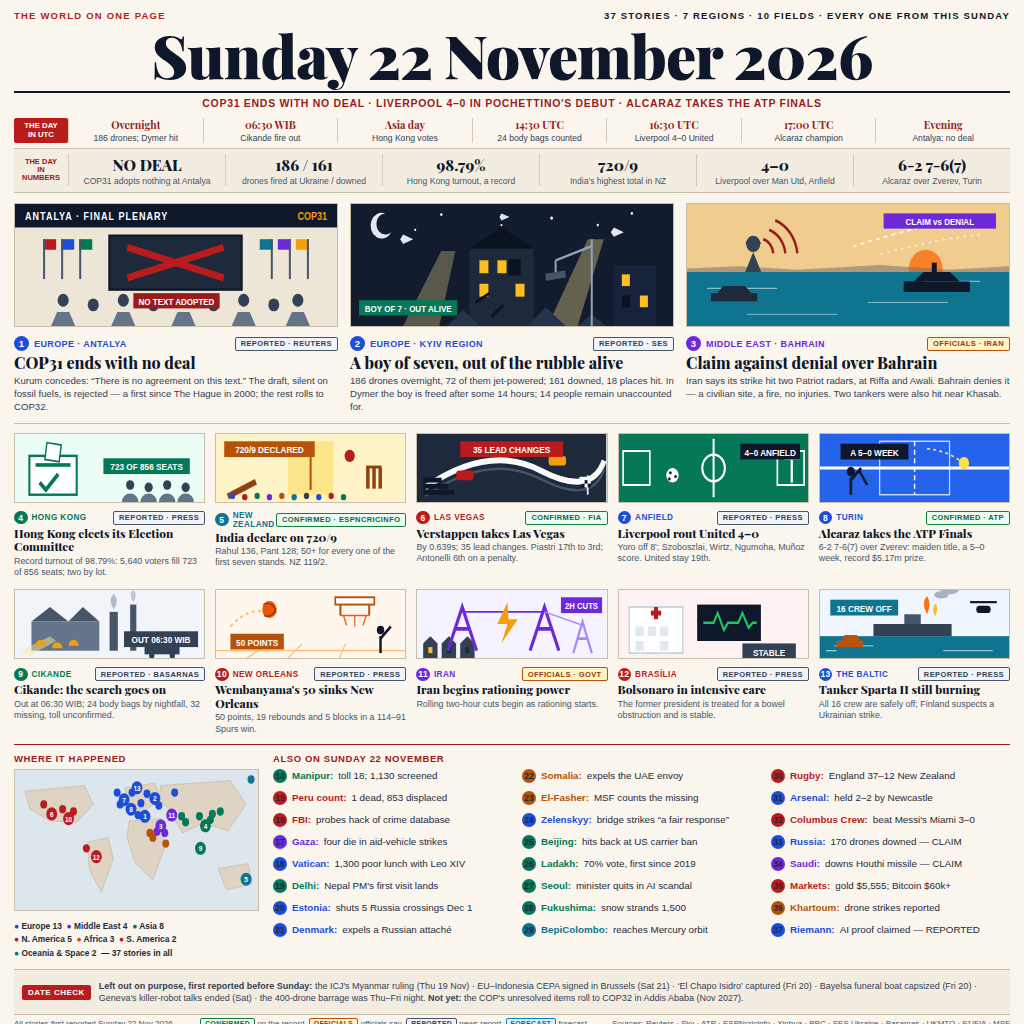
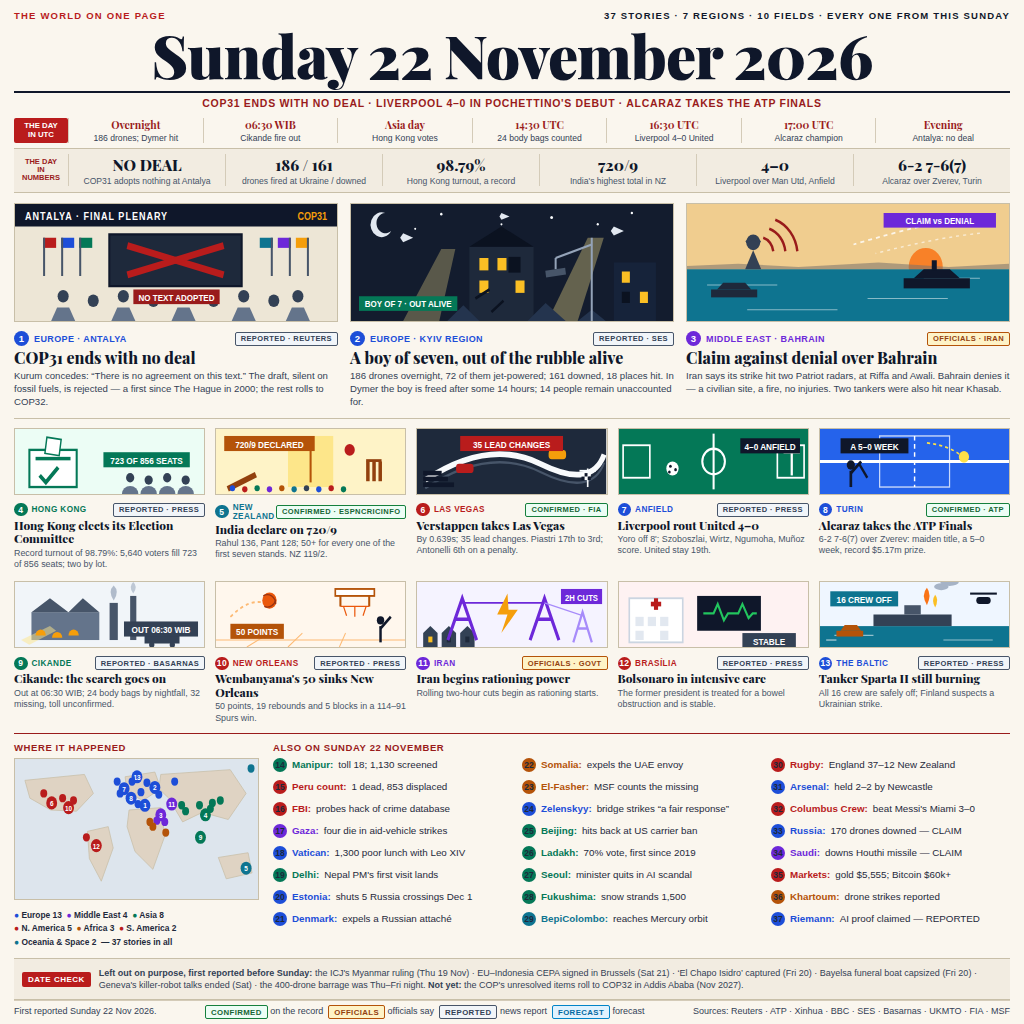
Footer legibility pass (user: legend row not visible)
Footer type 8px -> 9px in darker ink with a hairline rule above it;
mini badge pills 6.8px -> 7.8px; left line and sources list trimmed
so the row still fits one line. Reclaimed the height from lead
scenes (124->119), card scenes (70->67) and date-check padding so
nothing overflows the 1024 canvas. entry.png 301,616 bytes,
hand-in byte-identical x2.

Changed region(s): [[0.0, 0.1875, 1.0, 1.0], [0.5625, 0.2188, 0.5938, 0.25]]

diff --git a/page.html b/page.html
@@ -53,7 +53,7 @@
   .c-am { color:#B91C1C; } .c-af { color:#B45309; } .c-oc { color:#0E7490; }
   /* ---------- Layer 4: leads ---------- */
   .leads { display:grid; grid-template-columns:repeat(3,1fr); gap:12px; padding:10px 0 9px 0; }
-  .lead .scene { width:100%; height:124px; border:1px solid #C8BFA8; background:#EDE6D6; }
+  .lead .scene { width:100%; height:119px; border:1px solid #C8BFA8; background:#EDE6D6; }
   .mrow { display:flex; justify-content:space-between; align-items:center; margin:5px 0 3px 0; }
   .kick { display:flex; align-items:center; gap:5px; font-size:9px; font-weight:800; letter-spacing:0.4px; }
   .kick .dot { width:15px; height:15px; font-size:9.5px; }
@@ -62,7 +62,7 @@
   /* ---------- Layer 5: tier-2 cards ---------- */
   .tier2 { border-top:1px solid #C8BFA8; padding-top:9px;
     display:grid; grid-template-columns:repeat(5,1fr); column-gap:10px; row-gap:11px; }
-  .card .scene { width:100%; height:70px; border:1px solid #C8BFA8; }
+  .card .scene { width:100%; height:67px; border:1px solid #C8BFA8; }
   .card .mrow { margin:4px 0 2px 0; }
   .card .kick { font-size:8.2px; gap:4px; }
   .card .kick .dot { width:13.5px; height:13.5px; font-size:8.5px; }
@@ -81,15 +81,15 @@
   .brief b { font-weight:800; }
   .brief span { color:#1E293B; }
   /* ---------- Layer 7: date check ---------- */
-  .dcheck { margin-top:9px; padding:10px 8px; background:#F2ECE1; border-top:1px solid #C8BFA8;
+  .dcheck { margin-top:9px; padding:8px 8px; background:#F2ECE1; border-top:1px solid #C8BFA8;
     border-bottom:1px solid #C8BFA8; display:flex; align-items:center; gap:8px; }
   .dcheck .tag { background:#B91C1C; color:#FFF; font-size:8px; font-weight:800; padding:3px 6px;
     border-radius:2px; white-space:nowrap; letter-spacing:0.5px; }
   .dcheck p { font-size:9px; line-height:1.34; color:#334155; }
   /* ---------- Layer 8: footer ---------- */
-  .foot { display:flex; justify-content:space-between; align-items:center; padding-top:4px;
-    font-size:8px; color:#475569; margin-top:auto; }
-  .foot .mini { font-size:6.8px; padding:1px 4px; }
+  .foot { display:flex; justify-content:space-between; align-items:center; padding-top:5px;
+    font-size:9px; color:#334155; margin-top:auto; border-top:1px solid #D4CBB8; white-space:nowrap; }
+  .foot .mini { font-size:7.8px; padding:1.5px 5px; }
 </style>
 </head>
 <body>
@@ -363,14 +363,14 @@
 
   <!-- LAYER 8 · FOOTER -->
   <div class="foot">
-    <div>All stories first reported Sunday 22 Nov 2026.</div>
+    <div>First reported Sunday 22 Nov 2026.</div>
     <div>
       <span class="badge mini b-conf">Confirmed</span> on the record&nbsp;
       <span class="badge mini b-off">Officials</span> officials say&nbsp;
       <span class="badge mini b-rep">Reported</span> news report&nbsp;
       <span class="badge mini b-for">Forecast</span> forecast
     </div>
-    <div>Sources: Reuters · Sky · ATP · ESPNcricinfo · Xinhua · BBC · SES Ukraine · Basarnas · UKMTO · F1/FIA · MSF</div>
+    <div>Sources: Reuters · ATP · Xinhua · BBC · SES · Basarnas · UKMTO · FIA · MSF</div>
   </div>
 </body>
 </html>
